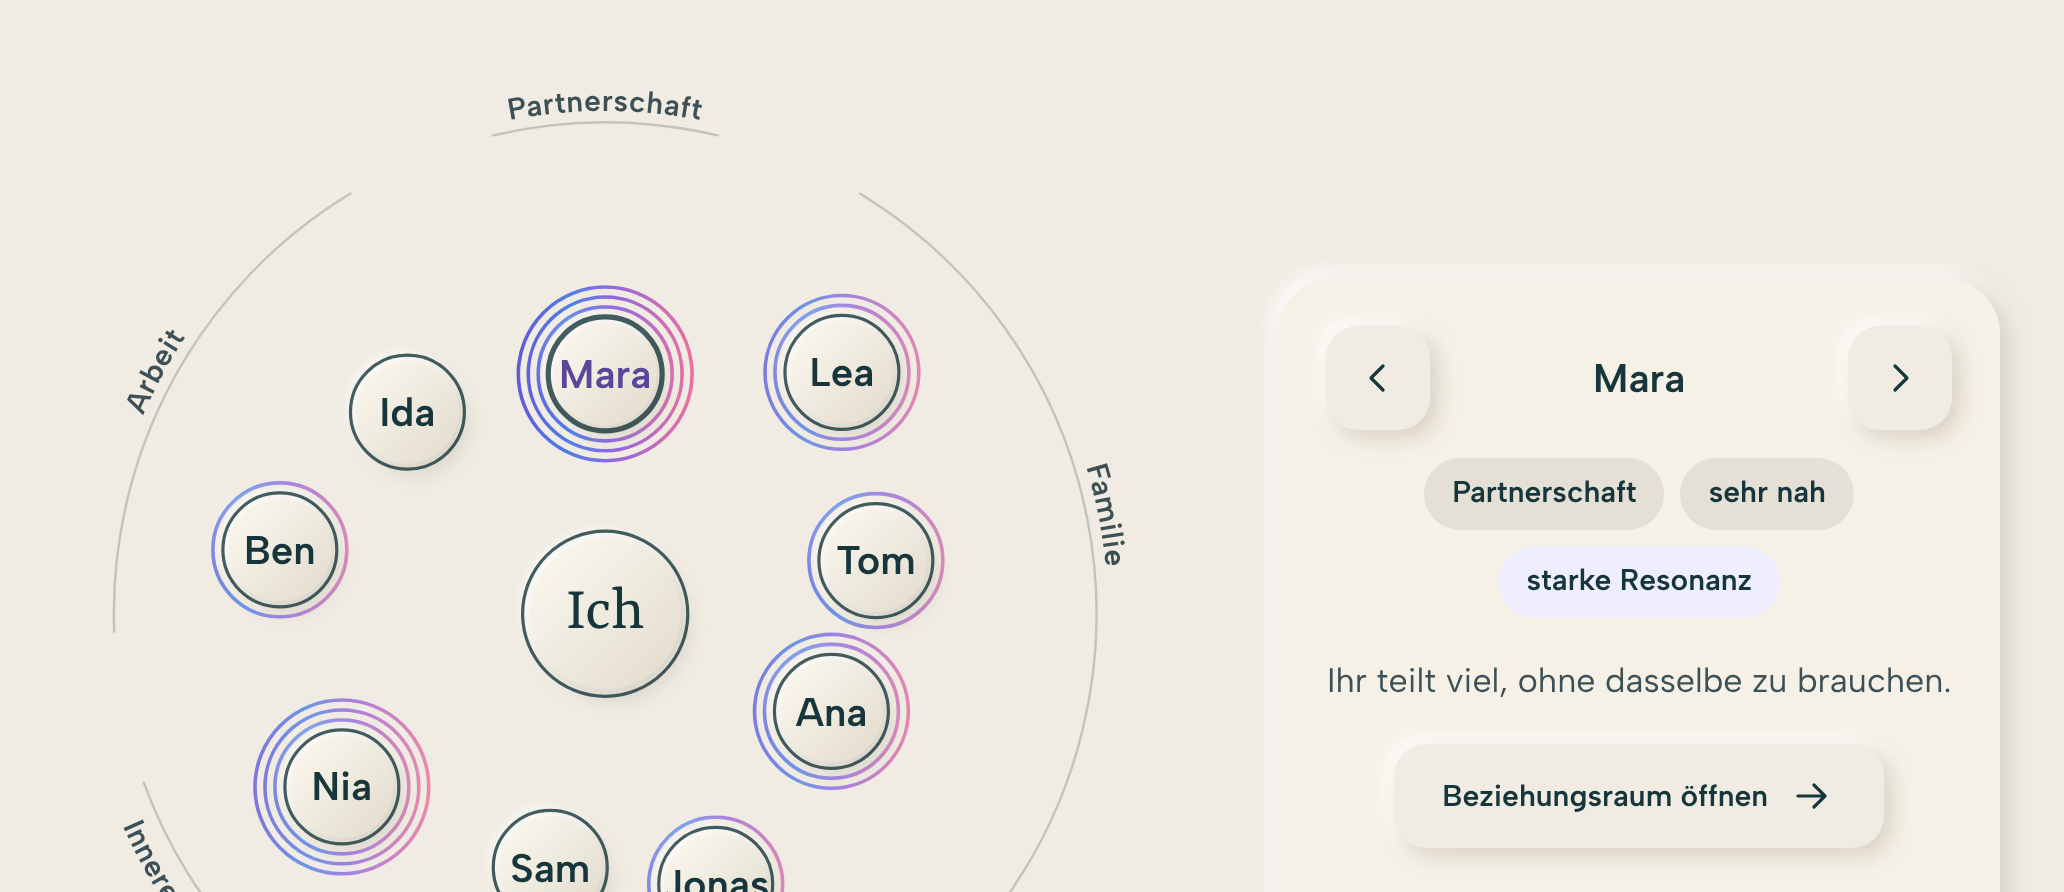
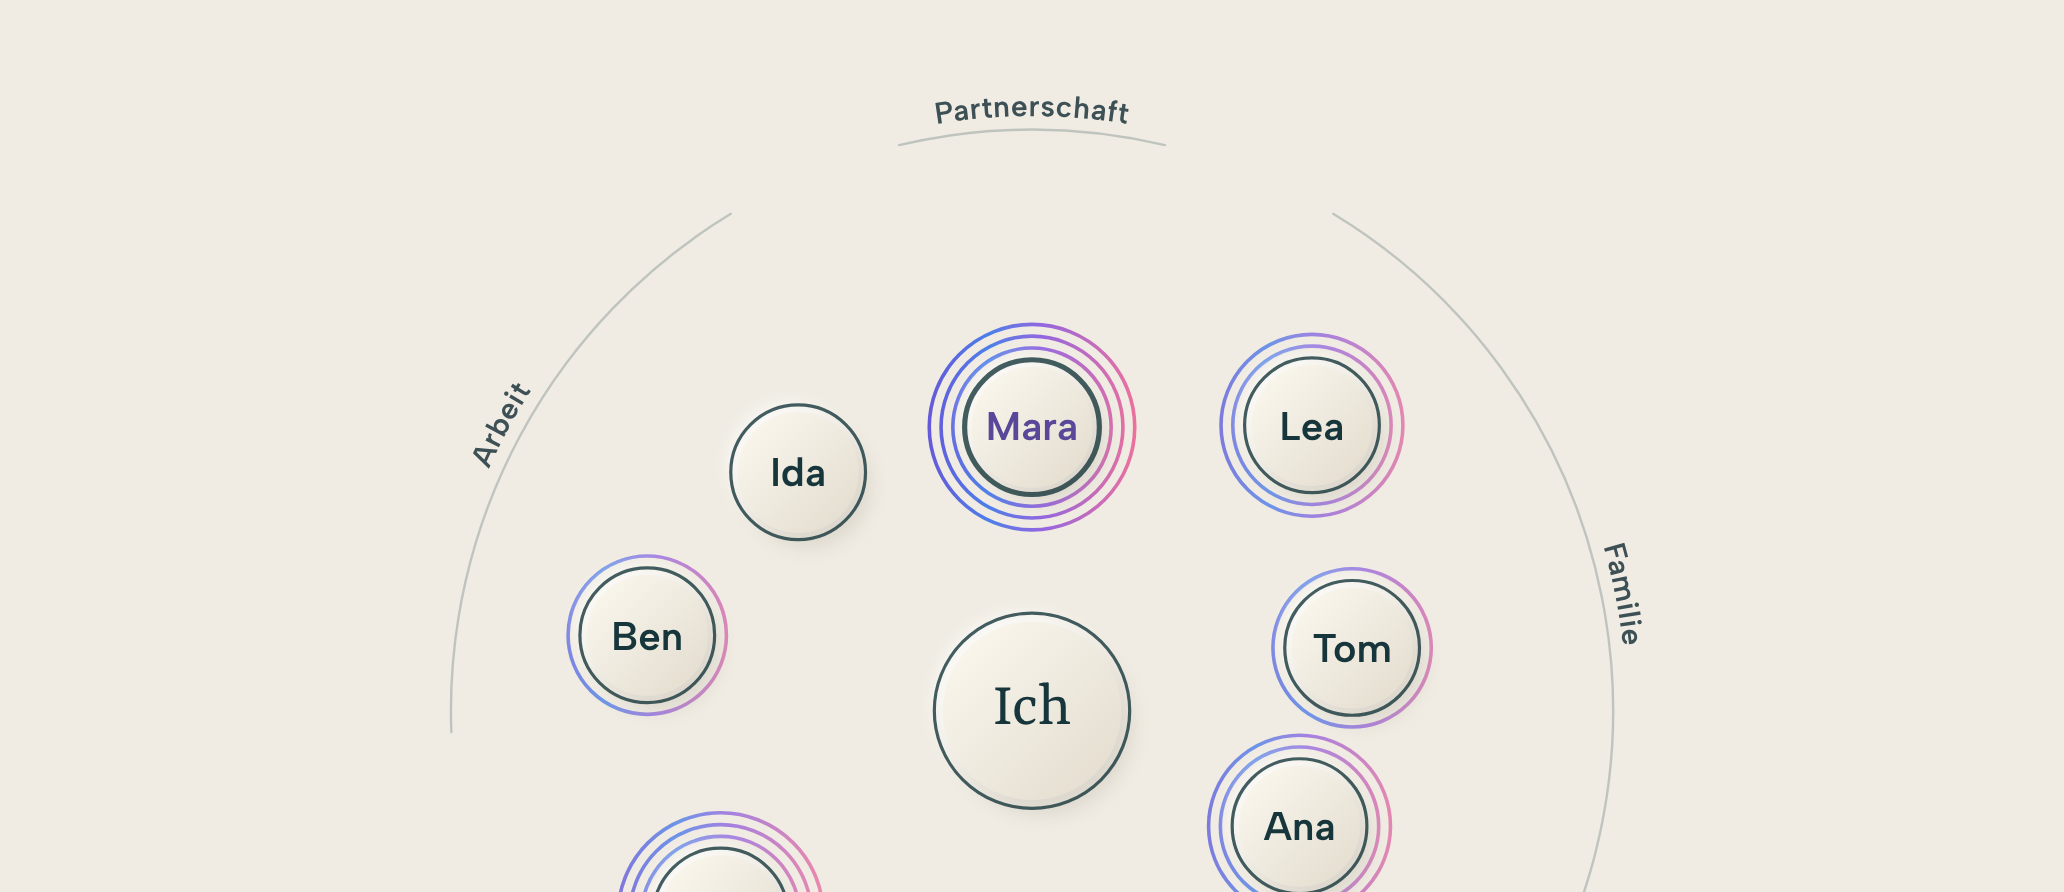
Umfeld: zwei Spalten erst ab 61rem
Bei 52rem war die Bildspalte neben der Karte unter 520 px breit und
zeigte die Telefon-Ansicht mit Filter. Gemessen in der App bei 1280 px.

Claude-Session: https://claude.ai/code/session_01GcUU3Qg4dj9oPnZ4iDHoTB

diff --git a/components/umfeld/umfeld.css b/components/umfeld/umfeld.css
@@ -39,7 +39,7 @@
 .umfeld__scene[data-layout=tall]{width:min(100%,440px)}
 .umfeld__scene[data-layout=tall] .umfeld__name{font:var(--type-label);font-weight:600}
 .umfeld__scene[data-layout=tall] .umfeld__name--me{font:var(--type-title);font-size:2rem;line-height:1}
-/* Zwei Spalten, sobald der Baustein selbst mindestens 52rem breit ist (das Skript setzt data-cols). Die Breite des Fensters sagt das nicht: Im App-Rahmen steht daneben die Seitenleiste, und mit grosser Schrift braucht die Karte mehr Platz. */
+/* Zwei Spalten, sobald der Baustein selbst mindestens 61rem breit ist (das Skript setzt data-cols). Die Breite des Fensters sagt das nicht: Im App-Rahmen steht daneben die Seitenleiste, und mit grosser Schrift braucht die Karte mehr Platz. */
 .umfeld[data-cols="2"]{grid-template-columns:minmax(0,1.2fr) minmax(0,.8fr);column-gap:clamp(48px,6vw,96px);align-items:center}
 /* Filterzeile im Hochformat: Pillen wie .segmented (base.css), immer eine Zeile und waagrecht wischbar. Passt alles hinein, steht sie mittig (die Bühne zentriert sie), sonst beginnt sie links.
    Der Innenabstand von 6 px lässt dem Fokusrahmen (3 px plus 2 px Abstand) Platz. Ein weicher Rand (Maske, --fade-l und --fade-r setzt das Skript) zeigt, dass es weitergeht. */

diff --git a/components/umfeld/umfeld.js b/components/umfeld/umfeld.js
@@ -468,10 +468,10 @@
     /* Die Breite der Bühne (Spalte), nicht der Szene: im Hochformat ist die Szene höchstens 440 px breit und käme sonst nie mehr zurück auf wide. */
     var column = root.querySelector('.umfeld__stage');
     var pickLayout = function () { var w = column.getBoundingClientRect().width || root.getBoundingClientRect().width; return w && w < 520 ? 'tall' : 'wide'; };
-    /* Zwei Spalten ab 52rem Breite des Bausteins, gemessen an ihm selbst. */
+    /* Zwei Spalten ab 61rem Breite des Bausteins: erst dann ist die Bildspalte mindestens 520 px breit und zeigt die volle Darstellung, gemessen an ihm selbst. */
     var setCols = function () {
       var rem = parseFloat(getComputedStyle(document.documentElement).fontSize) || 16;
-      var two = root.getBoundingClientRect().width >= 52 * rem;
+      var two = root.getBoundingClientRect().width >= 61 * rem;
       if (two !== (root.getAttribute('data-cols') === '2')) { if (two) root.setAttribute('data-cols', '2'); else root.removeAttribute('data-cols'); }
     };
     setCols();

diff --git a/README.md b/README.md
@@ -219,7 +219,7 @@ Jeder Baustein ist ein klassisches Skript und legt ein Objekt auf `window`. Mit 
 **Umfeld** · `components/umfeld/`, dazu `beziehungsraum.css` · `window.ElanumUmfeld`
 
 - `mount(root, { link, heading, people, kinds })` zeichnet Ich und die Menschen darum und gibt `{ select(i), parts }` zurück. `link` führt zum Beziehungsraum, ergänzt um `?person=…&proximity=…&resonance=…`. `people` ist ein Array `{ name, kind, proximity, resonance, note }` (0 bis 100, Vorgabe: die Beispielmenschen), `kinds` die Reihenfolge der Arten als Array von Strings (Vorgabe `['Partner','Familie','Freunde','Arbeit']`). Arten, die nur in `people` vorkommen, hängen hinten an (Reihenfolge des ersten Auftretens), Arten ohne Menschen bekommen weder Platz noch Pille. Gibt es weniger als zwei Arten (oder fehlt `kind` überall), entfallen Bögen, Wörter und Filter, und die Menschen stehen gleichmässig verteilt. Wer bei mehreren Arten keine hat, steht in der Gruppe «Weitere». Null Menschen zeigen nur «Ich» ohne Panel, ein Mensch hat keine Pfeile. Namen und Notizen werden als Text gesetzt, nie als HTML.
-- Bedienung: Die Kreise im Bild sind Knöpfe (Pfeiltasten wechseln den Menschen). Aufbau: das Bild, darunter (daneben, sobald der Baustein selbst 52rem breit ist) ein Panel `.umfeld__panel` (erhöhte Karte). Oben im Panel `.umfeld__nav` mit den Pfeilen und dem Namen des gewählten Menschen (`.umfeld__current`, als Überschrift im mit `heading` gewählten Level), darunter der Lesebereich `.umfeld__reader` mit Pillen für Nähe und Resonanz, Notiz und Knopf, zentriert, zum Ziehen mit Finger oder Maus. Jede Angabe steht nur einmal. Das Bild ist senkrecht auf den Inhalt beschnitten. Eine Liste gibt es nicht. Unter 520 px Bühnenbreite (Telefon) steht über dem Bild die Filterzeile `.umfeld__filter` («Alle» und je eine Art, immer eine Zeile, waagrecht wischbar, die gewählte Pille rollt ins Bild): «Alle» zeigt die Menschen als Punkte ohne Namen mit einem Knopf `.umfeld__group` je Gruppe, eine Art zeigt ihre Menschen gross mit Namen. Pfeile und Slider laufen durch alle, der Filter folgt der Auswahl. `parts.view` ist `wide`, `all` oder `kind`. Grund: Rückmeldungen Chris vom 15.11. und 16.11.2026, Design wie die Ich-Übersicht, eine Einheit.
+- Bedienung: Die Kreise im Bild sind Knöpfe (Pfeiltasten wechseln den Menschen). Aufbau: das Bild, darunter (daneben, sobald der Baustein selbst 61rem breit ist) ein Panel `.umfeld__panel` (erhöhte Karte). Oben im Panel `.umfeld__nav` mit den Pfeilen und dem Namen des gewählten Menschen (`.umfeld__current`, als Überschrift im mit `heading` gewählten Level), darunter der Lesebereich `.umfeld__reader` mit Pillen für Nähe und Resonanz, Notiz und Knopf, zentriert, zum Ziehen mit Finger oder Maus. Jede Angabe steht nur einmal. Das Bild ist senkrecht auf den Inhalt beschnitten. Eine Liste gibt es nicht. Unter 520 px Bühnenbreite (Telefon) steht über dem Bild die Filterzeile `.umfeld__filter` («Alle» und je eine Art, immer eine Zeile, waagrecht wischbar, die gewählte Pille rollt ins Bild): «Alle» zeigt die Menschen als Punkte ohne Namen mit einem Knopf `.umfeld__group` je Gruppe, eine Art zeigt ihre Menschen gross mit Namen. Pfeile und Slider laufen durch alle, der Filter folgt der Auswahl. `parts.view` ist `wide`, `all` oder `kind`. Grund: Rückmeldungen Chris vom 15.11. und 16.11.2026, Design wie die Ich-Übersicht, eine Einheit.
 - `ElanumUmfeld.people` und `ElanumUmfeld.kinds`: die Beispieldaten und die Vorgabe der Arten. Die Menschen haben je `kind` (Art), `proximity` und `resonance`. Der Winkel sagt die Art (Partnerschaft, Familie, Freundschaft, Innerer Weg, Arbeit, im Uhrzeigersinn, die erste oben), der Abstand die Nähe, die Linien die Resonanz. Ein feiner Bogen mit dem Wort der Art fasst jede Gruppe (`parts.arcs`), das Wort misst am Bildschirm mindestens 15 px. Die Art steht als erste Pille. Auf dem Telefon wird es ab etwa acht Menschen eng, dann braucht es einen Filter nach Art.
 
 ```html

diff --git a/DESIGN-NOTES.md b/DESIGN-NOTES.md
@@ -391,7 +391,7 @@ Im Zentrum steht das Resonanzrad mit neun Elementen: den Grundlagen, aus denen R
 
 - Die fünf Arten sind die der App (`partner`, `family`, `friend`, `spiritual`, `work`), mit ihren Wörtern: Partnerschaft, Familie, Freundschaft, Innerer Weg, Arbeit (Entscheid Chris, 16.11.2026). Eine erste Fassung hatte vier eigene Wörter (Partner, Familie, Freunde, Arbeit). Der Baustein nimmt jede Liste an (`opts.kinds`).
 
-- Zwei Spalten (Bild neben Karte) gelten, sobald der Baustein selbst 52rem breit ist. Das Skript misst ihn und setzt `data-cols`. Vorher schaltete die Breite des Fensters (900 px): Im App-Rahmen mit Seitenleiste und bei 125 % Schrift wurde die Karte so schmal, dass der Name umbrach (gemessen bei 1024 px).
+- Zwei Spalten (Bild neben Karte) gelten, sobald der Baustein selbst 61rem breit ist. Zuerst waren es 52rem: Dann war die Bildspalte aber unter 520 px breit und zeigte neben der Karte die Telefon-Ansicht (gemessen in der App bei 1280 px, 16.11.2026). Das Skript misst ihn und setzt `data-cols`. Vorher schaltete die Breite des Fensters (900 px): Im App-Rahmen mit Seitenleiste und bei 125 % Schrift wurde die Karte so schmal, dass der Name umbrach (gemessen bei 1024 px).
 
 - Lange Namen im Kreis: der volle Name, wenn er passt, sonst der Vorname, sonst gekürzt mit Auslassung. Der volle Name steht in der Pfeilzeile und im Vorlesetext. Die Regel kommt aus der App; mit ihren Daten lief «Imaginärer Solo-Partner» aus dem Kreis (gemessen 16.11.2026, Entscheid Chris).
 
